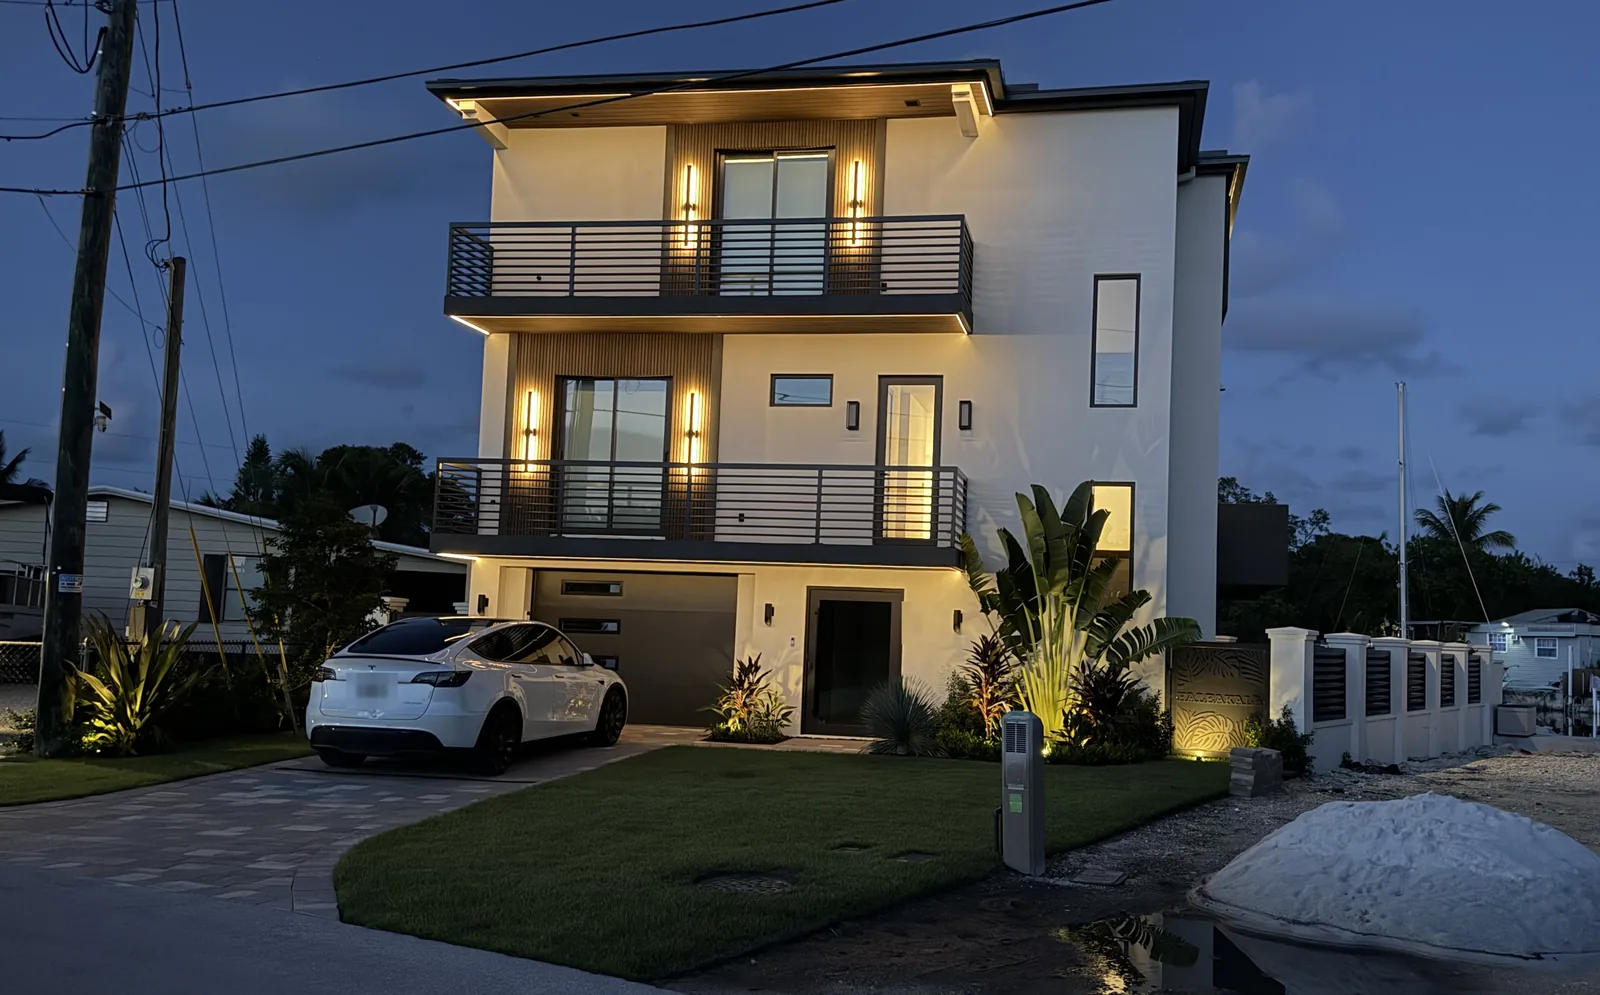
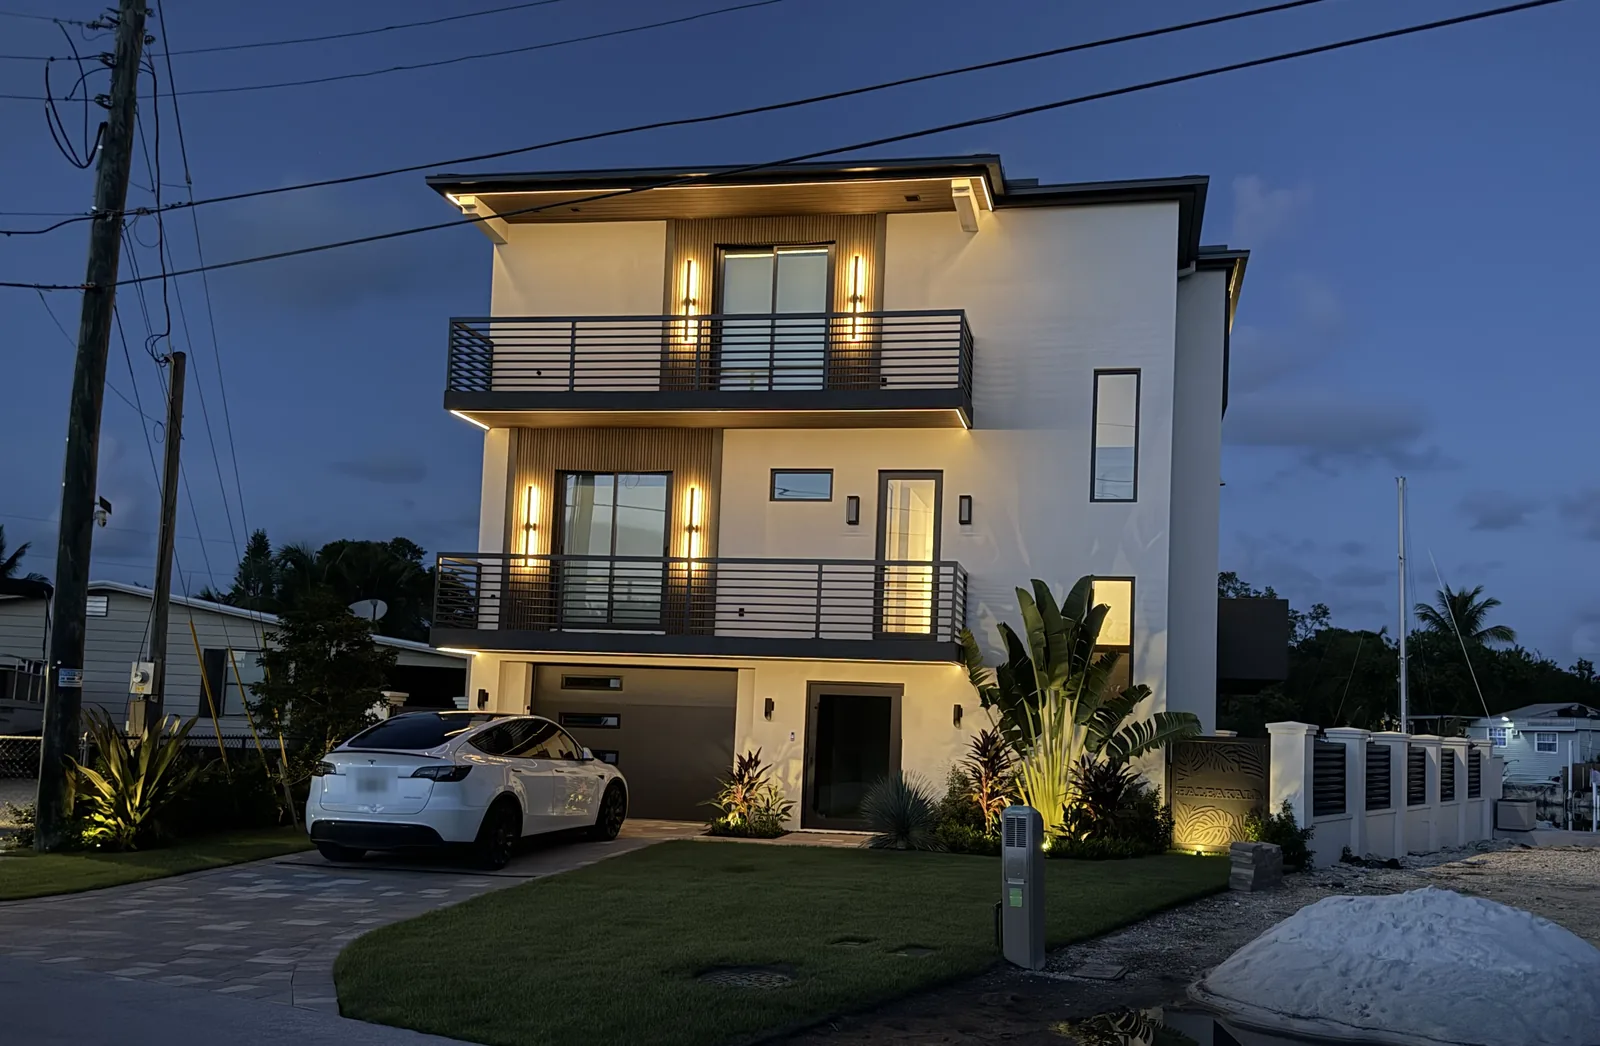
Residential photo: more sky so the lit roof line is fully visible; object-top

diff --git a/residential.html b/residential.html
@@ -76,7 +76,7 @@
             <a href="mailto:paul@ptmelectric.com" class="border border-slate-600 hover:border-brand-500 text-white font-semibold px-6 py-3 rounded-xl text-center transition">Email paul@ptmelectric.com</a>
           </div>
         </div>
-        <img src="images/residential-home-night.webp" alt="Modern three-story home at dusk with exterior LED lighting by PTM Electric" width="1600" height="995" class="rounded-2xl border border-slate-800 w-full object-cover max-h-80">
+        <img src="images/residential-home-night.webp" alt="Modern three-story home at dusk with exterior LED lighting by PTM Electric" width="1600" height="1046" class="rounded-2xl border border-slate-800 w-full object-cover object-top max-h-80">
       </div>
     </div>
   </section>
